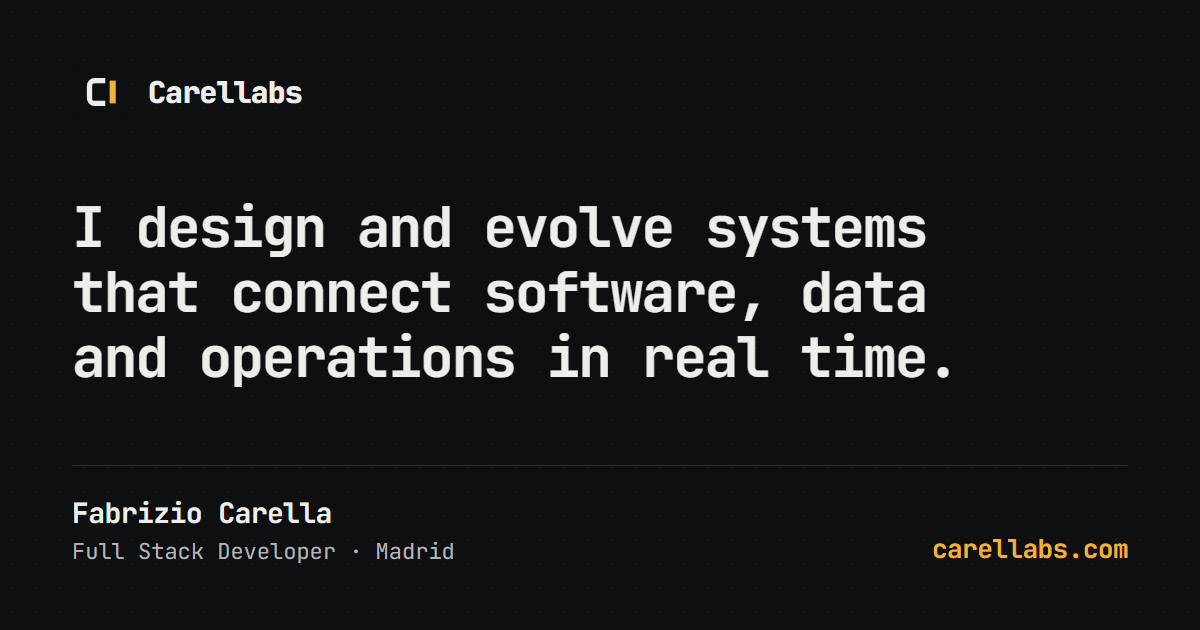
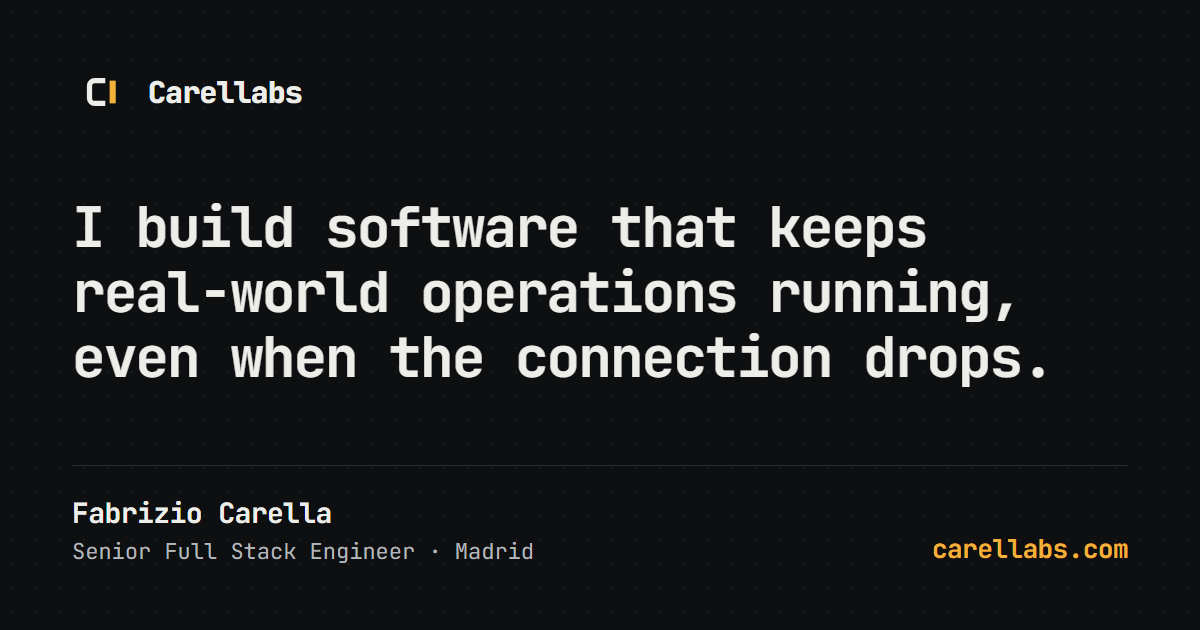
feat(content): alinea los textos de la web con el perfil de LinkedIn (#22)
Rol Senior Full Stack Engineer en título, JSON-LD y metadatos, nuevo titular
y especialidades del hero, perfil, trayectoria y contacto en ES y EN. Las
imágenes Open Graph se regeneran con el nuevo titular y rol. Los tests que
fijaban el texto anterior se actualizan; el de idioma lee el titular de i18n.

Changed region(s): [[0.0617, 0.3016, 0.8942, 0.6032], [0.0617, 0.8444, 0.4317, 0.9048], [0.0617, 0.4222, 0.2158, 0.5127]]

diff --git a/tests/content.spec.ts b/tests/content.spec.ts
@@ -24,13 +24,19 @@ const CANONICAL = { es: `${SITE}/`, en: `${SITE}/en/` } as const;
 /** Alternativas de idioma: el español es también el x-default. */
 const ALTERNATES = { es: `${SITE}/`, en: `${SITE}/en/`, "x-default": `${SITE}/` } as const;
 
+/** El titular (h1) de cada idioma, tal como está en src/i18n: así el test no fija el texto de marketing. */
+const headline = (lang: "es" | "en"): string =>
+  JSON.parse(readFileSync(`src/i18n/${lang}.json`, "utf8")).hero.headline;
+
 test("Spanish page is in Spanish, English page is in English", async ({ page }) => {
+  // Los dos titulares existen y son distintos: si no, el test no distinguiría un idioma del otro.
+  expect(headline("es")).not.toBe(headline("en"));
   await page.goto("/");
   await expect(page.locator("html")).toHaveAttribute("lang", "es");
-  await expect(page.locator("h1")).toContainText("Diseño");
+  await expect(page.locator("h1")).toHaveText(headline("es"));
   await page.goto("/en/");
   await expect(page.locator("html")).toHaveAttribute("lang", "en");
-  await expect(page.locator("h1")).toContainText("design");
+  await expect(page.locator("h1")).toHaveText(headline("en"));
 });
 
 // El selector está en la cabecera y en el pie: los dos tienen que llevar al otro idioma.

diff --git a/tests/seo.spec.ts b/tests/seo.spec.ts
@@ -125,7 +125,7 @@ for (const lang of ["es", "en"] as const) {
 
   test(`${path}: the title carries the role and og:title repeats it`, async ({ page }) => {
     await page.goto(path);
-    const title = "Fabrizio Carella · Full Stack Developer · Carellabs";
+    const title = "Fabrizio Carella · Senior Full Stack Engineer · Carellabs";
     await expect(page).toHaveTitle(title);
     await expect(page.locator('meta[property="og:title"]')).toHaveAttribute("content", title);
   });
@@ -193,7 +193,7 @@ for (const lang of ["es", "en"] as const) {
     // Anclas que no dependen de los JSON de i18n: lo que de verdad se quiere publicar.
     expect(data["@id"]).toBe("https://carellabs.com/#person");
     expect(data.name).toBe("Fabrizio Carella");
-    expect(data.jobTitle).toBe("Full Stack Developer");
+    expect(data.jobTitle).toBe("Senior Full Stack Engineer");
     expect(data.sameAs).toEqual(["https://www.linkedin.com/in/fabriziocarella", "https://github.com/carellabs"]);
     expect(data.address).toEqual({ "@type": "PostalAddress", addressLocality: "Madrid", addressCountry: "ES" });
     expect(data.knowsAbout).toEqual([...HERO_FOCUS[lang].items]);

diff --git a/tests/viewports.ts b/tests/viewports.ts
@@ -27,6 +27,6 @@ export const DOTTED_CARD_TEXTS = [".name", ".host", ".status", ".desc"] as const
 
 /** Etiqueta y elementos de la lista de especialidades del hero, por idioma. */
 export const HERO_FOCUS = {
-  es: { label: "Especialidades", items: ["Backend distribuido", "Integraciones ERP", "Offline-first"] },
-  en: { label: "Specialties", items: ["Distributed backend", "ERP integrations", "Offline-first"] },
+  es: { label: "Especialidades", items: ["Sistemas distribuidos", "Rendimiento y fiabilidad", "Offline-first"] },
+  en: { label: "Specialties", items: ["Distributed systems", "Performance & reliability", "Offline-first"] },
 } as const;
